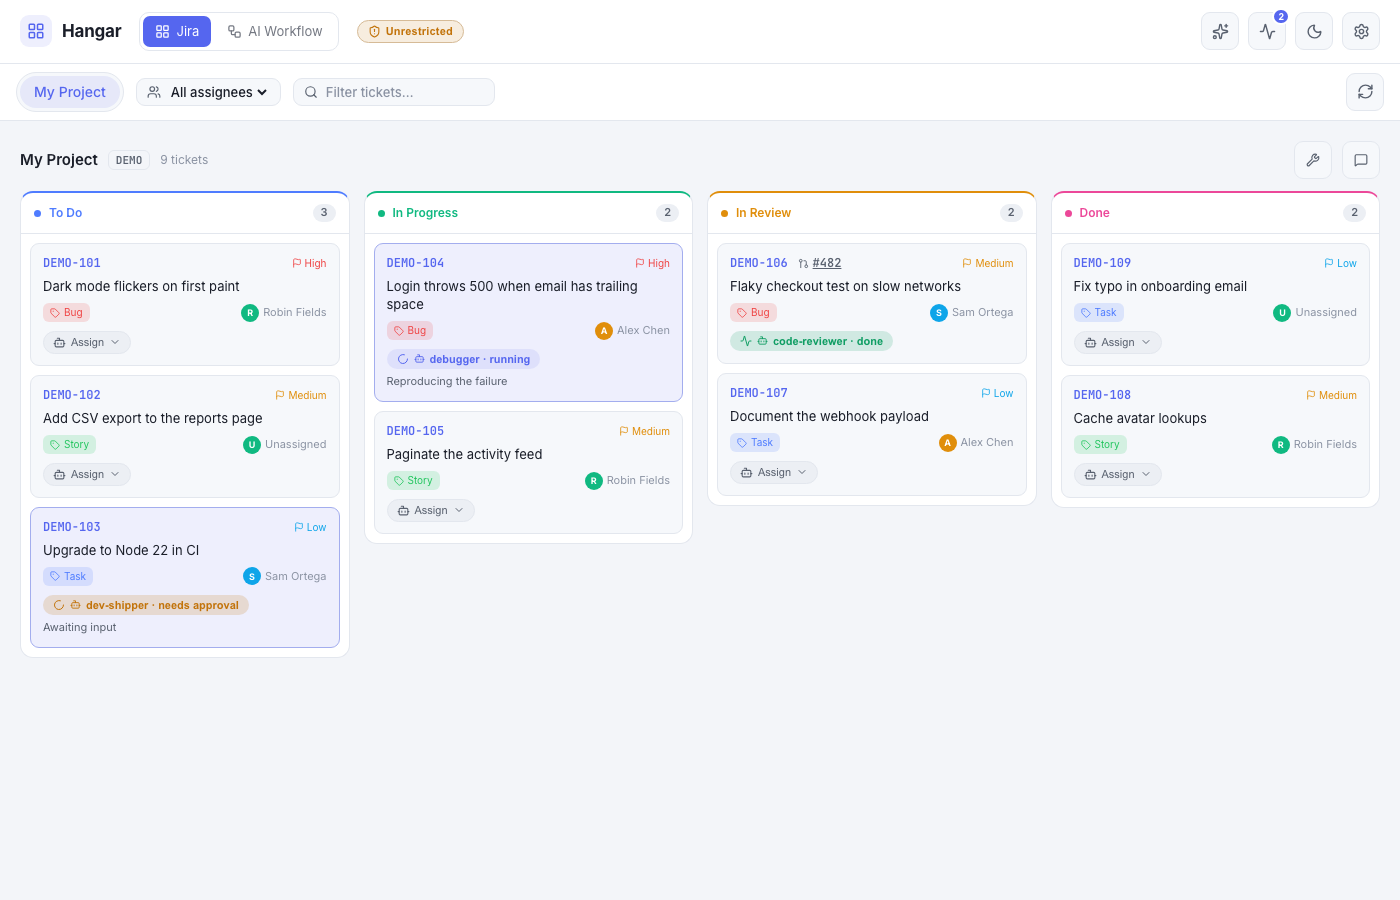
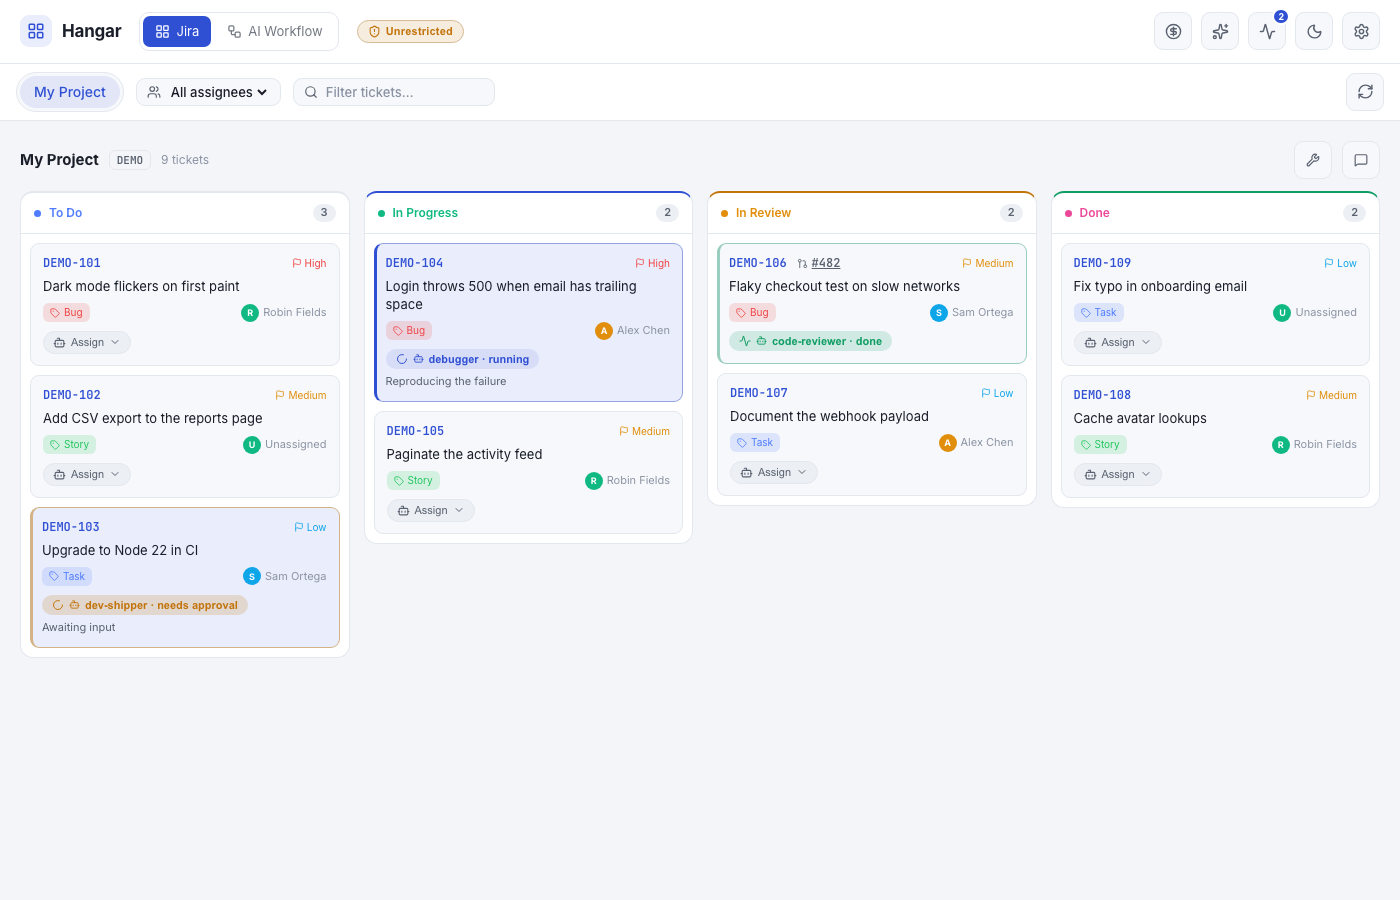
chore(release): v0.7.0

diff --git a/docs/AI_WORKFLOW.md b/docs/AI_WORKFLOW.md
@@ -207,23 +207,32 @@ hot-reloaded — no restart needed.
 
 ## API
 
-All under `/api/aiwf/*` (defined in `server/src/index.ts`):
+All under `/api/aiwf/*` (defined in `server/src/routes/aiwf.ts`):
 
-| Method + path                                        | Purpose                                              |
-| ---------------------------------------------------- | ---------------------------------------------------- |
-| `GET /api/aiwf/status`                               | install state + column/skill presets + repo/author  |
-| `POST /api/aiwf/install`                             | run the aiwf bootstrap installer                     |
-| `POST /api/aiwf/uninstall`                           | run `aiwf uninstall-all` (toolkit only)              |
-| `GET /api/aiwf/projects`                             | list registered projects                            |
-| `POST /api/aiwf/projects`                            | register `{ name, repoPath, mode: "new"\|"adopt" }`  |
-| `PATCH /api/aiwf/projects/:id`                       | change a project's `{ name?, repoPath? }` (location) |
-| `DELETE /api/aiwf/projects/:id`                      | unregister a project (repo files untouched)          |
-| `GET /api/aiwf/projects/:id/cards`                   | list the project's cards                             |
-| `POST /api/aiwf/projects/:id/cards`                  | create a card `{ title, status?, kind?, skill? }`    |
-| `POST /api/aiwf/projects/:id/cards/:key/transition`  | move a card `{ status }`                             |
-| `POST /api/aiwf/projects/:id/cards/:key/archive`     | archive or unarchive a card `{ archived: boolean }`  |
-| `DELETE /api/aiwf/projects/:id/cards/:key`           | permanently delete a card file                       |
-| `POST /api/aiwf/projects/:id/cards/:key/run`         | run a skill on a card `{ skill, note? }`             |
+| Method + path                                          | Purpose                                              |
+| ------------------------------------------------------ | ---------------------------------------------------- |
+| `GET /api/aiwf/status`                                 | install state + column/skill presets + repo/author  |
+| `POST /api/aiwf/install`                               | run the aiwf bootstrap installer                     |
+| `POST /api/aiwf/uninstall`                             | run `aiwf uninstall-all` (toolkit only)              |
+| `GET /api/aiwf/projects`                               | list registered projects                            |
+| `POST /api/aiwf/projects`                              | register `{ name, repoPath, mode: "new"\|"adopt" }`  |
+| `PATCH /api/aiwf/projects/:id`                         | change a project's `{ name?, repoPath? }` (location) |
+| `DELETE /api/aiwf/projects/:id`                        | unregister a project (repo files untouched)          |
+| `GET /api/aiwf/projects/:id/cards`                     | list the project's cards                             |
+| `GET /api/aiwf/projects/:id/cards/:key`                | get a single card by key                             |
+| `POST /api/aiwf/projects/:id/cards`                    | create a card `{ title, status?, kind?, skill? }`    |
+| `POST /api/aiwf/projects/:id/cards/:key/transition`    | move a card `{ status }`                             |
+| `POST /api/aiwf/projects/:id/cards/:key/archive`       | archive or unarchive a card `{ archived: boolean }`  |
+| `DELETE /api/aiwf/projects/:id/cards/:key`             | permanently delete a card file                       |
+| `POST /api/aiwf/projects/:id/cards/:key/run`           | run a skill on a card `{ skill, note? }`             |
+| `POST /api/aiwf/projects/:id/cards/:key/checkout`      | checkout the card's task branch into a worktree      |
+| `POST /api/aiwf/projects/:id/checkout`                 | checkout a branch for the project                    |
+| `GET /api/aiwf/projects/:id/worktrees`                 | list active worktrees for the project                |
+| `DELETE /api/aiwf/projects/:id/worktrees/:key`         | remove a card's task worktree                        |
+| `DELETE /api/aiwf/projects/:id/worktrees`              | remove all worktrees for the project                 |
+| `GET /api/aiwf/projects/:id/branch`                    | get the current branch info for the project          |
+| `GET /api/aiwf/projects/:id/docs/tree`                 | doc tree (PRD, ARCH, roadmap, specs) for the sidebar |
+| `GET /api/aiwf/projects/:id/docs/content`              | serve a file under `docs/` for the doc panel         |
 
 ## Where it lives
 
@@ -231,7 +240,7 @@ All under `/api/aiwf/*` (defined in `server/src/index.ts`):
 
 - `server/src/aiwf.ts` — phase/skill presets, install detect/bootstrap/uninstall, the markdown card
   store (`listCards`/`createCard`/`transitionCard`/`getCard`) and `appendCardHistory`.
-- `server/src/index.ts` — the `/api/aiwf/*` routes.
+- `server/src/routes/aiwf.ts` — the `/api/aiwf/*` routes (mounted in `server/src/index.ts`).
 - `server/src/sessions.ts` — tags aiwf card runs (`aiwfProjectId`/`aiwfPhase`) and logs results to the
   card on completion.
 - `server/src/config.ts` — `aiWorkflow.projects` validation + persistence (`getAiwfProjects` /

diff --git a/docs/THREAT_MODEL.md b/docs/THREAT_MODEL.md
@@ -62,7 +62,7 @@ Non-negotiable invariants that must always hold:
 
 | Surface | Exposure | Controls today |
 |---------|----------|----------------|
-| `PUT /api/config` | Any client reaching :3001 | None (no auth, no schema validation) |
+| `PUT /api/config` | Any client reaching :3001 | Zod schema validation; invalid payloads rejected 400 |
 | `PUT /api/settings/jira` | Any client reaching :3001 | Token is write-only (never returned) |
 | `POST /api/runs` | Any client reaching :3001 | Rate limit: 30 req/min |
 | `GET /api/runs/:id/stream` (SSE) | Any client reaching :3001 | None |
@@ -72,7 +72,8 @@ Non-negotiable invariants that must always hold:
 | `POST /api/aiwf/projects` | Any client reaching :3001 | repoPath existence check |
 | `POST /api/aiwf/install` | Any client reaching :3001 | None |
 | `POST /api/runs/:id/terminal` | Any client reaching :3001 | Session ID validation; dir shell-quoted |
-| `GET /api/aiwf/projects/:id/docs/:slug` | Any client reaching :3001 | Slug: `/^[A-Za-z0-9_-]+$/` |
+| `GET /api/aiwf/projects/:id/docs/tree` | Any client reaching :3001 | Scoped to registered project repoPath |
+| `GET /api/aiwf/projects/:id/docs/content` | Any client reaching :3001 | Path traversal validation; scoped to `docs/` under repoPath |
 | `POST /api/aiwf/projects/:id/cards/:key/checkout` | Any client reaching :3001 | None (git branch checkout in live project root) |
 | `DELETE /api/aiwf/projects/:id/worktrees/:key` | Any client reaching :3001 | None (forced worktree removal) |
 | `DELETE /api/aiwf/projects/:id/worktrees` | Any client reaching :3001 | None (bulk forced worktree removal) |
@@ -94,9 +95,10 @@ Non-negotiable invariants that must always hold:
 | 2 | CSRF to `PUT /api/config` rewrites `repoPaths` to a sensitive directory | Next agent run executes in the wrong repo | Medium | Config schema partially validates structure |
 | 3 | CSRF to `GET /api/runs` / `GET /api/runs/:id/stream` exfiltrates full transcript history | Leaks all file content the agent read during previous sessions | Medium | None |
 
-**Root cause:** `app.use(cors())` sets no `origin` restriction. Standard CORS blocks credentials
-by default, but `fetch("http://localhost:3001/api/...", { mode: "no-cors" })` still fires the
-request — and state-changing endpoints (POST/PUT) don't require a response body for harm.
+**Mitigation:** CORS origin is restricted to `localhost:5180` + `127.0.0.1:5180`, blocking
+cross-origin browser requests. `fetch` from any other origin is rejected before reaching route
+handlers. Malicious local processes (TCP to :3001 directly) are not blocked by CORS — the rate
+limit is the only control there.
 
 #### 1b. Malicious Local Process
 
@@ -204,12 +206,11 @@ data from your Jira instance. Agent transcripts persist this data indefinitely i
 | Requirement | Status |
 |-------------|--------|
 | Data minimization | Not addressed — full ticket body is sent to Anthropic |
-| Retention limits | Not implemented — transcripts persist until manually deleted |
+| Retention limits | Partial — `runRetentionDays` config auto-deletes terminal runs on startup; `DELETE /api/runs/:id` for manual erasure |
 | Right to erasure | Partial — `DELETE /api/runs/:id` exists but is manual and undiscoverable |
 | Data processor agreement | Anthropic's DPA covers API usage; operator is responsible for ensuring coverage |
 | Cross-border transfer | Anthropic API processes data outside the EU by default |
 
 **Recommended actions:**
-- Add a `runRetentionDays` config option (see control #7 above).
 - Document in the README that Jira ticket content is sent to Anthropic's API so operators can make an informed choice.
 - Consider a `sanitizeTicketBody` option that strips the ticket description before it becomes part of the agent prompt, relying only on the title + ticket key.

diff --git a/CHANGELOG.md b/CHANGELOG.md
@@ -7,6 +7,61 @@ and this project adheres to [Semantic Versioning](https://semver.org/spec/v2.0.0
 
 ## [Unreleased]
 
+## [0.7.0] - 2026-06-26
+
+### Added
+
+- Usage cost panel in the topbar: shows Claude Code session costs broken down by day, month,
+  billing block, and session — powered by [ccusage](https://github.com/ryoppippi/ccusage), with a
+  one-click install prompt when ccusage is not detected (HAN-20)
+- Doc tree sidebar in the AIWF board: persistent left panel listing the project's PRD,
+  architecture doc, design system, threat model, roadmap, and specs; click any entry to open it
+  in a doc panel alongside the board (HAN-16, HAN-19)
+- Spec number badge and paginated "see more" on doc tree sidebar entries (HAN-19)
+- Smart action buttons on the AIWF run panel: context-aware next-step suggestions based on the
+  current phase (e.g. "Run /feature" after planning, "Run /pr" after implementation) (HAN-17)
+- Inline agent/skill picker replaces the hand-off modal dropdown — pick the next skill directly
+  from the run panel without an intermediate dialog (HAN-18)
+
+### Changed
+
+- AIWF docs modal (📖 Docs & Specs) removed; project docs and specs are now browsed through the
+  doc tree sidebar and doc panel (HAN-15, HAN-16)
+
+### Fixed
+
+- Sessions view: usage cost dates pre-populated to the current week; fetch is not triggered on
+  initial load (prevents unnecessary requests when the panel first opens)
+- ccusage detection falls back to the npx cache when ccusage is not globally installed
+- PR opened from the correct branch when a delivery skill hands off from one run to another
+- Session ID flushed to disk immediately on SDK init, preventing loss of the session ID on server
+  restart (HAN-22)
+- Scroll position preserved in the hand-off skill picker when navigating the list
+
+### Security
+
+- Path traversal guard on AIWF card key routes: `req.params.key` validated against
+  `/^[A-Za-z0-9]+-\d+$/` before reaching `path.join()` on transition, archive, delete, worktree,
+  and checkout routes (Threat 16)
+- Zod schema validation on `PUT /api/config`: invalid payloads rejected with 400 before any disk
+  write (Threat 11)
+- `bypassPermissions` defaults to `false` for fresh installs — gated mode (approve risky shell
+  commands) is now the default; Settings shows an amber warning in unrestricted mode (Threats 7,
+  8, 13)
+- `/api/fs/exists` restricted to configured `repoPaths` — paths outside registered repos return
+  400 (Threat 12)
+- CORS origin restricted to `localhost:5180` + `127.0.0.1:5180` — rejects cross-origin browser
+  requests (Threats 1–3)
+- Server bound to `127.0.0.1` — prevents accidental LAN or cloud exposure (Threat 6)
+- `execFileSync` with array args in `aiwf.ts` — eliminates shell injection from the `aiwfBin`
+  path (Threat 10)
+- `.hangar/` and subdirectories created with mode `0700` — other OS users and backup tools cannot
+  read transcript files (Threat 14)
+- Run retention policy: `runRetentionDays` config auto-deletes terminal runs older than N days on
+  startup; "Delete" button in Sessions view for on-demand erasure (Threat 15)
+- Route splitting refactor: `index.ts` now contains only middleware setup and router mounts
+  (~78 lines); all route handlers moved into domain modules under `server/src/routes/`
+
 ## [0.6.0] - 2026-06-24
 
 ### Added

diff --git a/README.md b/README.md
@@ -26,6 +26,8 @@ run, with a human in the loop when it matters.
 - **Live run panel** — live output, tool calls, the captured session id and running
   cost, an auto-detected PR link, and an **Open in terminal** button for finished sessions
   (set up in **Settings → Terminal**).
+- **Usage cost panel** — a topbar button shows Claude Code session costs (requires
+  [ccusage](https://github.com/ryoppippi/ccusage)) broken down by day, month, and billing block.
 - **Human-in-the-loop** — run unrestricted, or _gated_: reads and edits auto-run while risky
   shell commands pause for approval. Agent questions surface right in the panel with answer buttons.
 - **Run isolation** — each run gets its own git worktree + branch, so multiple agents work the
@@ -142,7 +144,9 @@ chip can be edited to change its name or location (the repo path) in place. Card
 **archive**, **delete**, and **see data** actions via a `⋯` menu; a **checkout** action switches
 the project root to the card's task branch. A **Worktrees** button in the board header lists and
 removes stale task branches. A **📖 Skills guide** button in the sub-bar shows every aiwf skill
-by phase tab, with install status and descriptions.
+by phase tab, with install status and descriptions. A **doc tree sidebar** on the left of the AIWF
+board shows the project's PRD, architecture doc, roadmap, and specs — click any entry to open it in
+a doc panel alongside the board.
 
 **→ Full guide: [`docs/AI_WORKFLOW.md`](docs/AI_WORKFLOW.md).**
 
@@ -159,6 +163,7 @@ by phase tab, with install status and descriptions.
 | `isolateRuns`               | run each session in its own git worktree + branch (default on)                                        |
 | `exclusiveAgents`           | agent/skill names that need shared ports/tunnels — run one at a time                                  |
 | `maxTurns` / `maxBudgetUsd` | per-run limits (default 300 turns, no spend cap)                                                      |
+| `runRetentionDays`          | auto-delete finished runs older than N days on startup; unset = keep forever                          |
 | `terminal`                  | "Open in terminal" command template (`{{dir}}` + `{{command}}` placeholders); unset = action warns    |
 
 Environment (`.env`, see [`.env.example`](.env.example)): `JIRA_BASE_URL`, `JIRA_EMAIL`,
@@ -179,10 +184,10 @@ server follows `PORT`). For example, `WEB_PORT=8080` serves the UI on http://loc
 
 ## Permissions & safety
 
-By default agents run **unrestricted** — like `claude --dangerously-skip-permissions` — so they
-can edit files and run any shell command, including `git push`. A topbar flag makes this visible,
-and **gated** mode (Settings → Agent permissions) holds mutating/unknown shell commands for an
-explicit Allow/Deny. Run Hangar against repos you trust, and prefer gated mode if you're unsure.
+Fresh installs default to **gated** mode — reads and file edits auto-run while mutating or
+unknown shell commands pause for an explicit Allow/Deny. **Unrestricted** mode (Settings →
+Agent permissions) removes all approval prompts, like `claude --dangerously-skip-permissions`.
+A topbar flag makes the current mode visible. Run Hangar against repos you trust.
 
 ## License
 

diff --git a/docs/ARCHITECTURE.md b/docs/ARCHITECTURE.md
@@ -76,7 +76,7 @@ business logic to the modules below.
 - Routes split into 5 domain modules (~78-line `index.ts`). Each module owns its imports and can be tested in isolation.
 - Rate limiting on session-spawn endpoints: 30 req/min per IP. Guards against runaway loops
   or misconfigured clients — not a security boundary.
-- CORS is open (no origin restriction) — acceptable for a localhost-only tool.
+- CORS origin restricted to `localhost:5180` + `127.0.0.1:5180` — blocks CSRF from malicious web pages.
 
 ---
 
@@ -196,8 +196,8 @@ URLs (dev-status API → remote links → comments, in order).
 
 **Responsibility:** Everything touching the AI Workflow (aiwf) connection — card CRUD,
 phase-lifecycle management, worktree state for task branches, install/uninstall of the toolkit,
-doc listing (flat `listProjectDocs` for the docs modal; tree `listProjectDocTree` for the
-sidebar), and doc content serving (`getProjectDocByPath` — path-validated, `docs/`-scoped).
+doc tree listing (`listProjectDocTree` for the sidebar), and doc content serving
+(`getProjectDocByPath` — path-validated, `docs/`-scoped).
 
 **Card storage:** Markdown files in `.hangar/aiwf/<projectId>/board/`. Cards have YAML
 frontmatter (`status`, `kind`, `prUrl`, `skill`, `history[]`, `archived`).
@@ -259,8 +259,6 @@ and four overlays (board, settings, sessions, run panel).
   (PRD, architecture, design, roadmap, specs). Collapsible; state persisted to `localStorage`.
 - `DocPanel` — right-hand doc viewer (reuses RunPanel CSS shell); fetches and renders doc
   markdown by relative path; replaces RunPanel when a doc is open.
-- `AiwfDocsModal` — multi-tab docs browser (📖 Docs & Specs); serves aiwf toolkit docs and
-  per-project spec/doc files.
 - `Settings` — Jira connection, boards config, permission toggle, terminal command.
 
 **Theme:** CSS custom properties (`--bg`, `--fg`, `--accent`, …). `useTheme.ts` toggles
